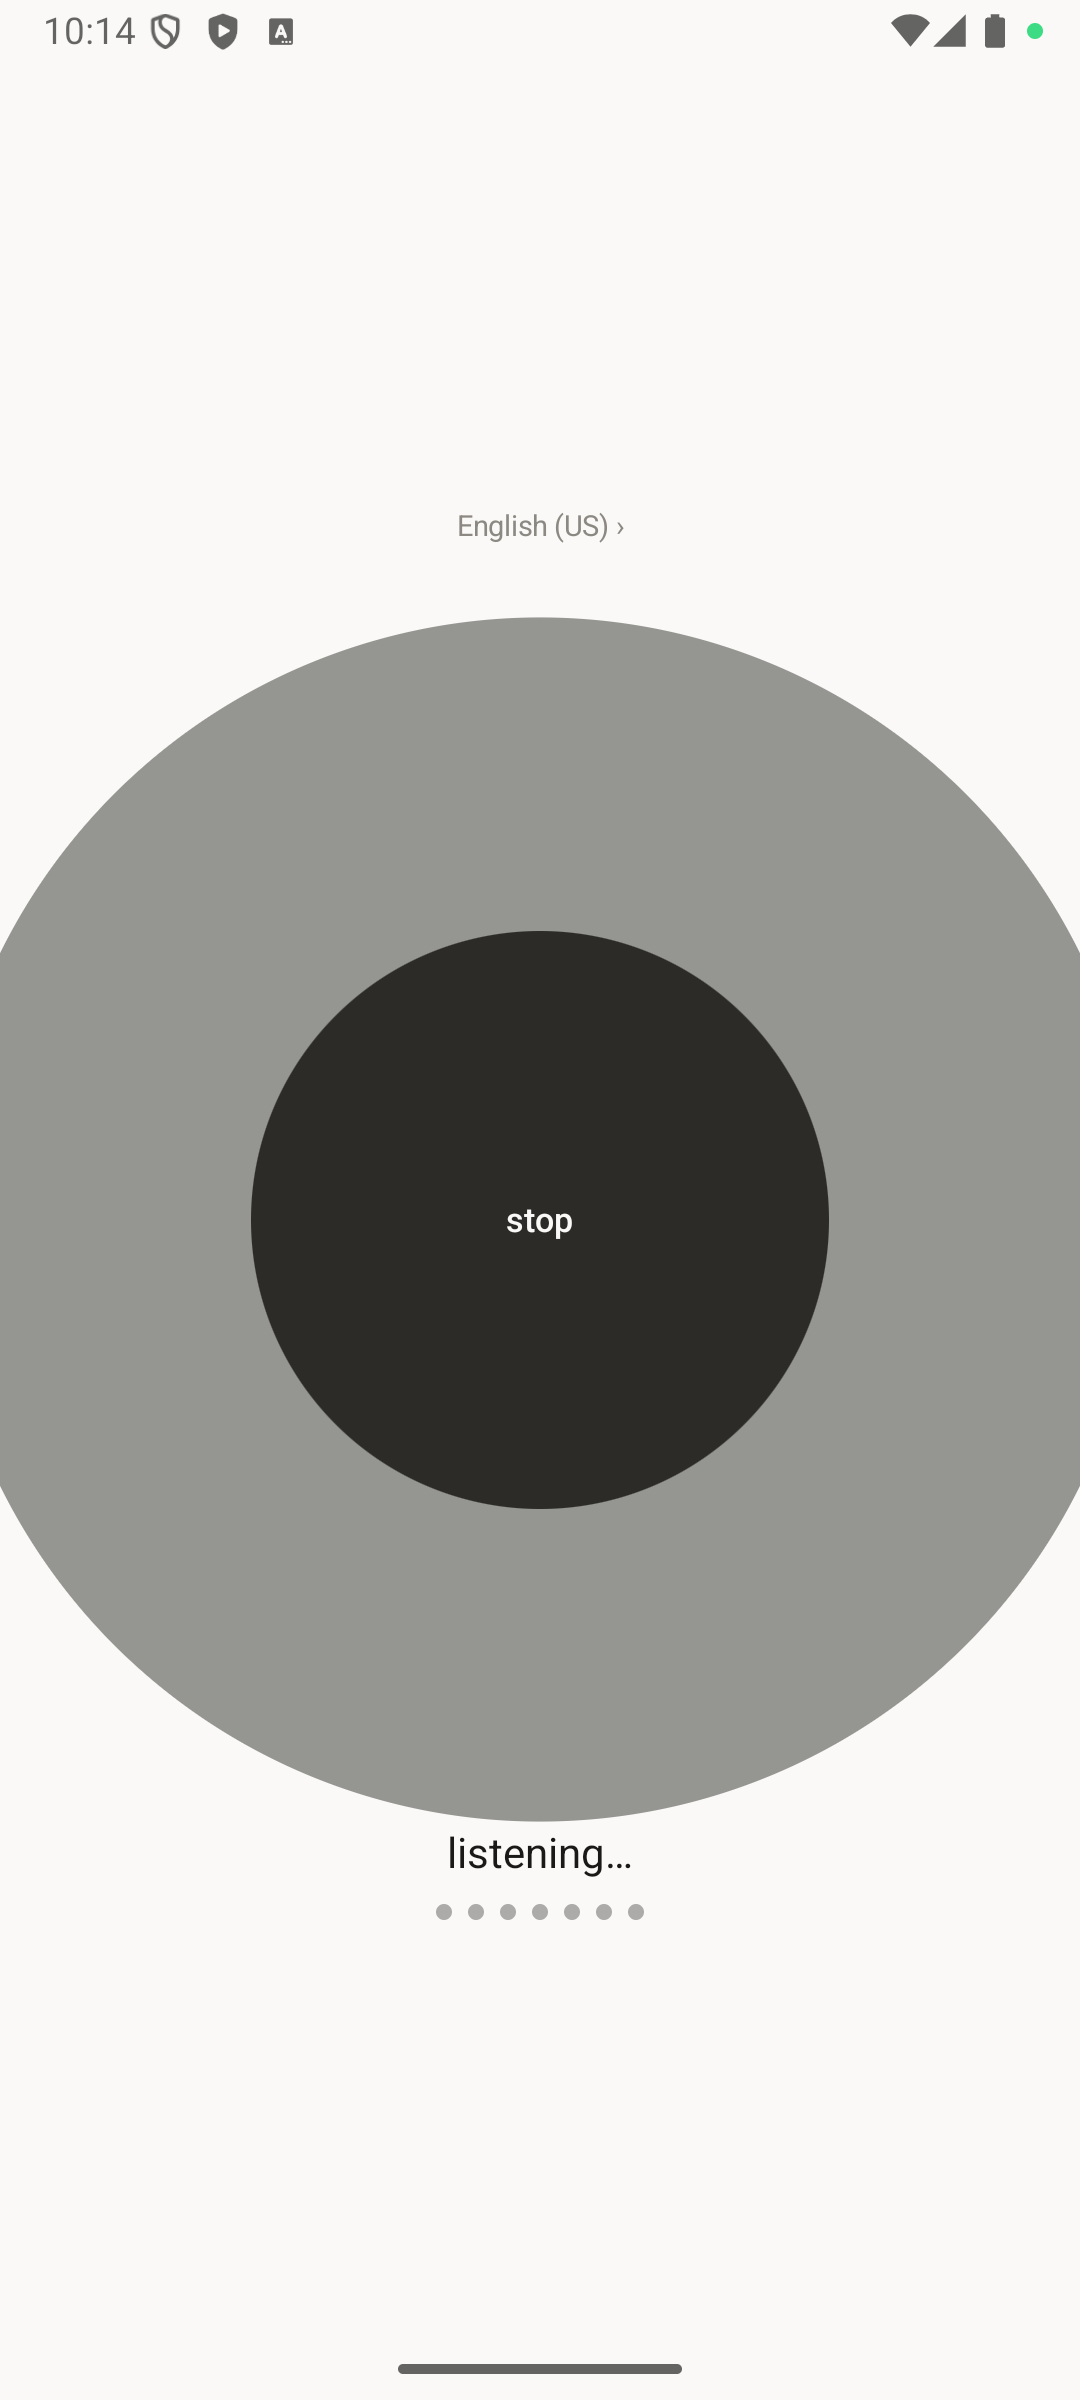
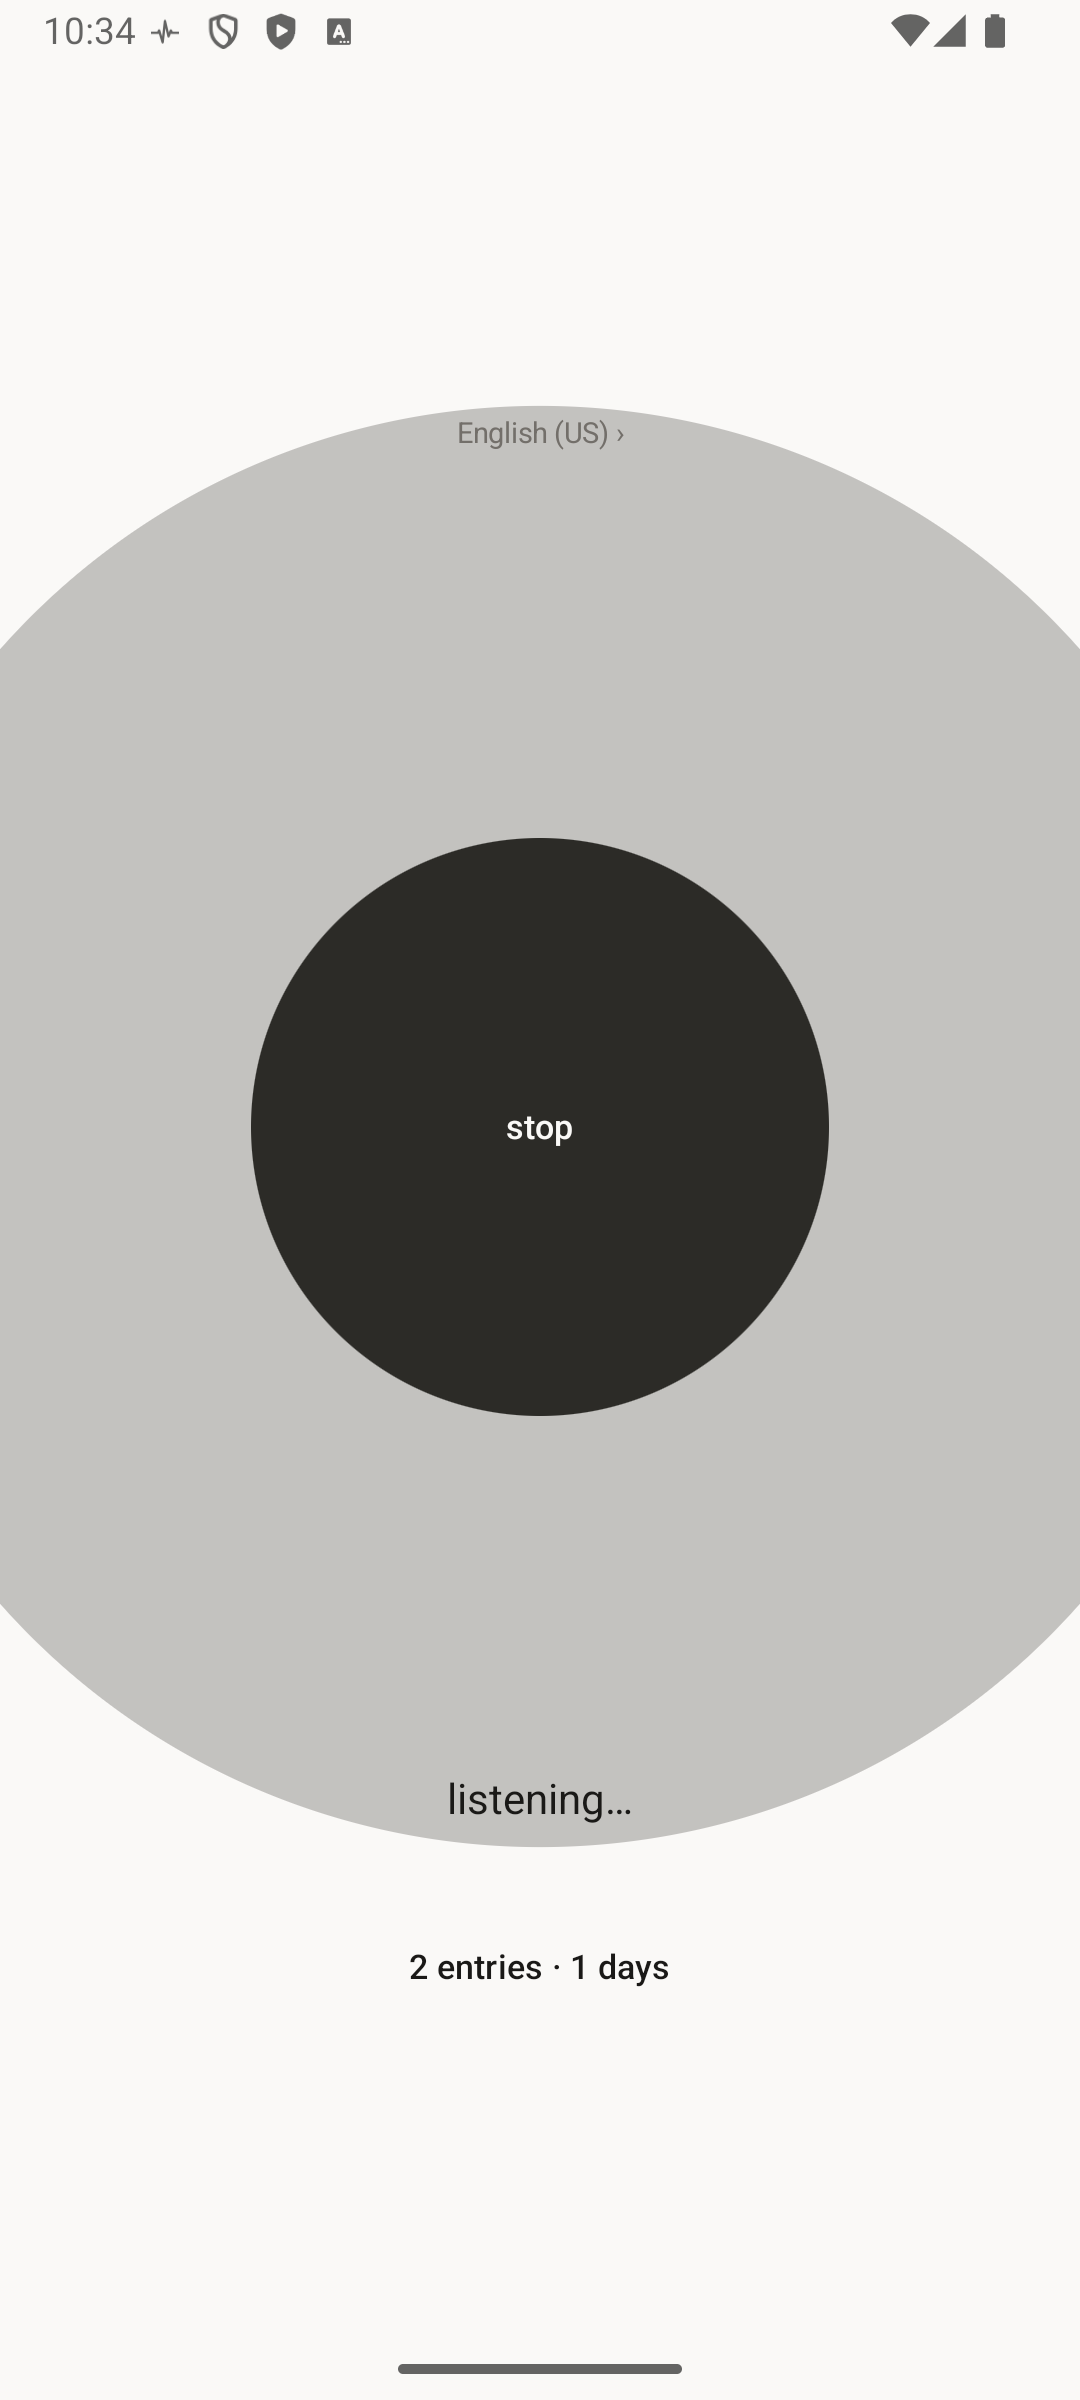
Update documentation screenshots in README.md.
- Removed dark mode screenshots (`dark_start.png`, `dark_listening.png`).
- Added a new light mode settings screenshot (`light_setting.png`).
- Updated existing light mode screenshots for the start and listening states.

diff --git a/README.md b/README.md
@@ -17,8 +17,7 @@ The core loop takes about thirty seconds.
 <p align="center">
   <img src="docs/light_start.png" width="170">
   <img src="docs/light_listening.png" width="170">
-  <img src="docs/dark_start.png" width="170">
-  <img src="docs/dark_listening.png" width="170">
+  <img src="docs/light_setting.png" width="170">
 </p>
 
 ---
